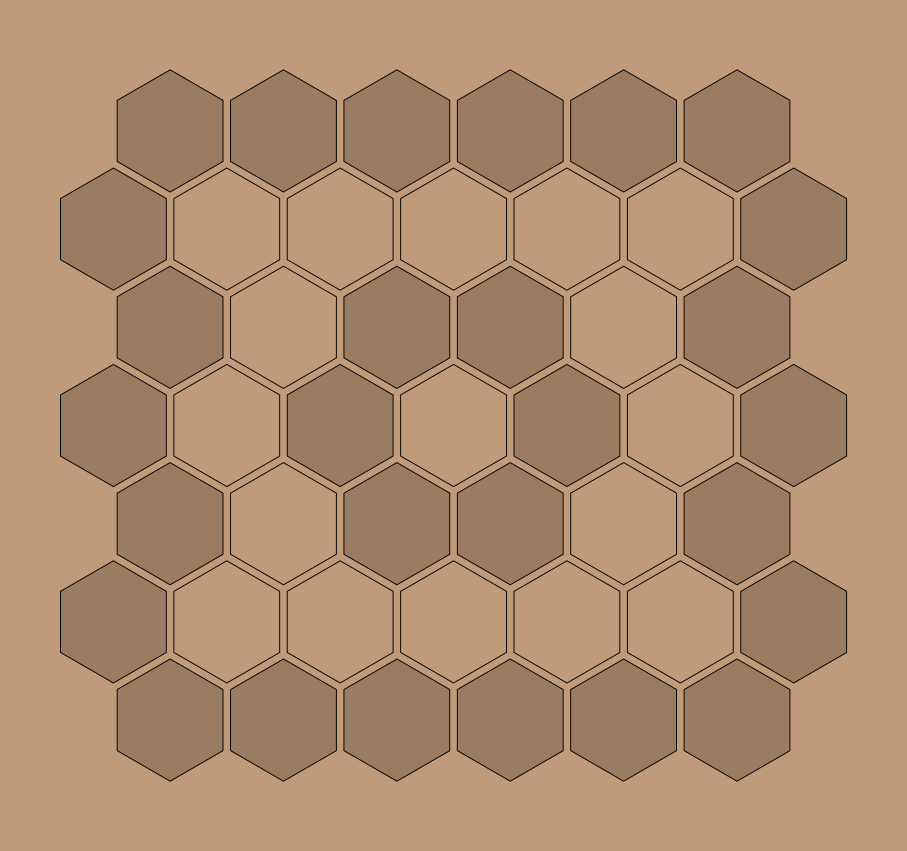
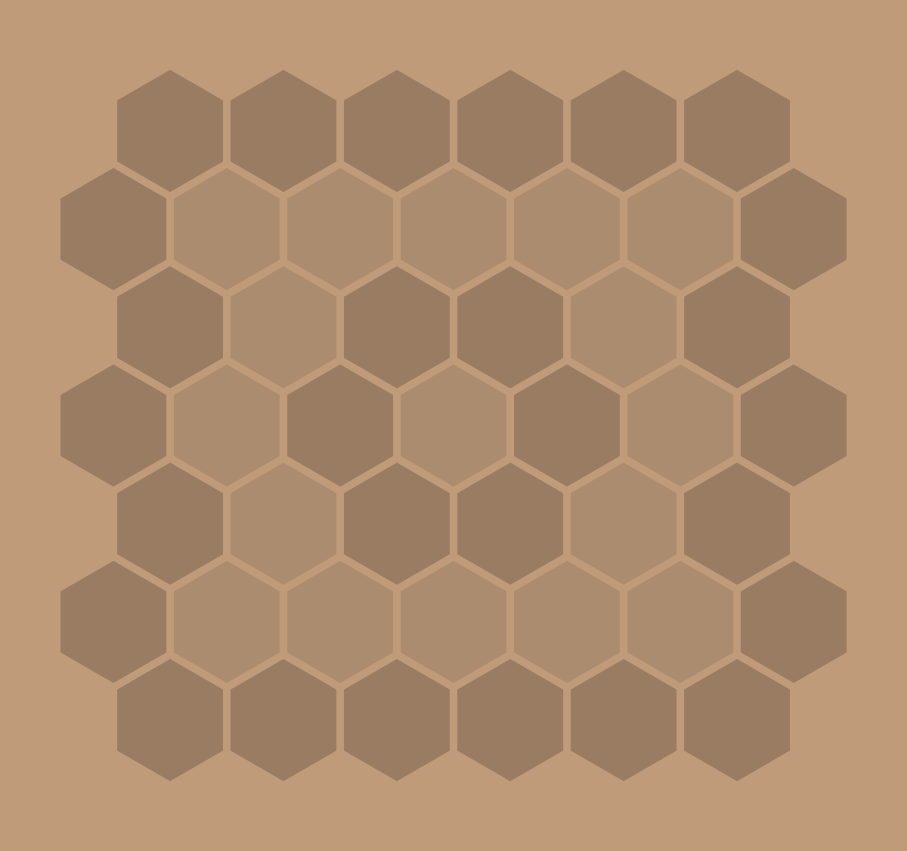
Remove hexagon line color and add two degrees of opacity

diff --git a/pijersi_svg/pijersi_svg.py b/pijersi_svg/pijersi_svg.py
@@ -250,7 +250,7 @@ def make_canvas_config():
 
     # color and etc.
     hexagon_opacity = 0.20
-    hexagon_line_color = 'black'
+    hexagon_line_color = None
 
     hexagon_line_width = max(
         1, board_width*(hexagon_line_width_cm/board_width_cm))
@@ -460,7 +460,7 @@ class Hexagon:
         Hexagon('g6', (1, 3), ring=0, label_side=Side.EAST)
 
 
-def draw_pijersi_board(with_all_labels=True, without_labels=False):
+def draw_pijersi_board(with_all_labels=False, without_labels=False):
     print()
     print("draw_pijersi_board: ...")
 
@@ -511,7 +511,7 @@ def draw_pijersi_board(with_all_labels=True, without_labels=False):
         hexagon = draw.Lines(*vertex_data,
                              fill=None,
                              fill_opacity=CANVAS_CONFIG.hexagon_opacity *
-                             (1 if abstract_hexagon.ring % 2 == 0 else 0),
+                             (1 if abstract_hexagon.ring % 2 == 0 else 0.5),
                              stroke=CANVAS_CONFIG.hexagon_line_color,
                              stroke_width=CANVAS_CONFIG.hexagon_line_width,
                              close='true')
